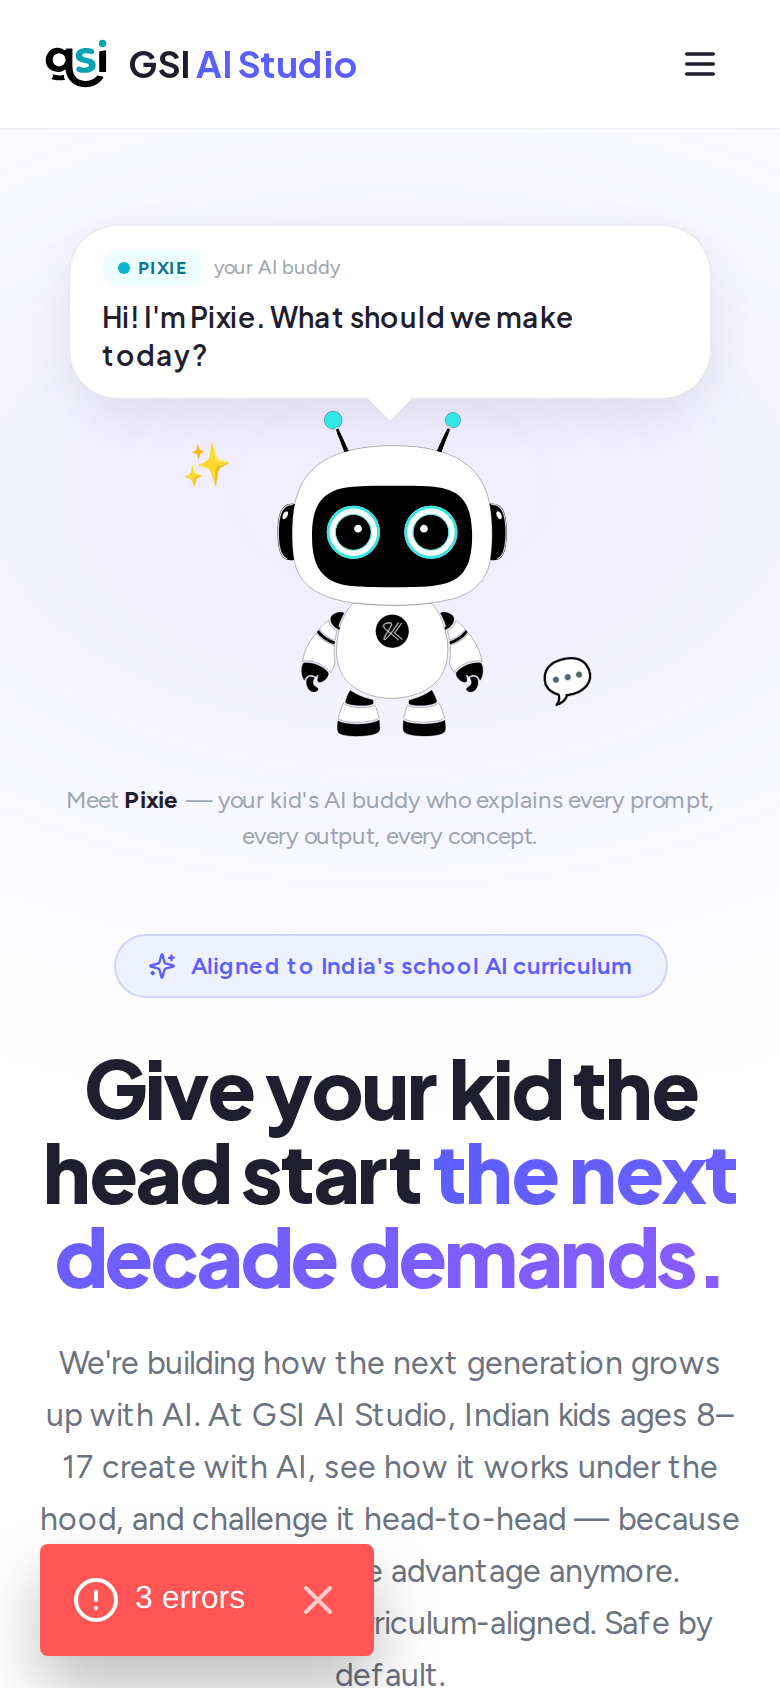
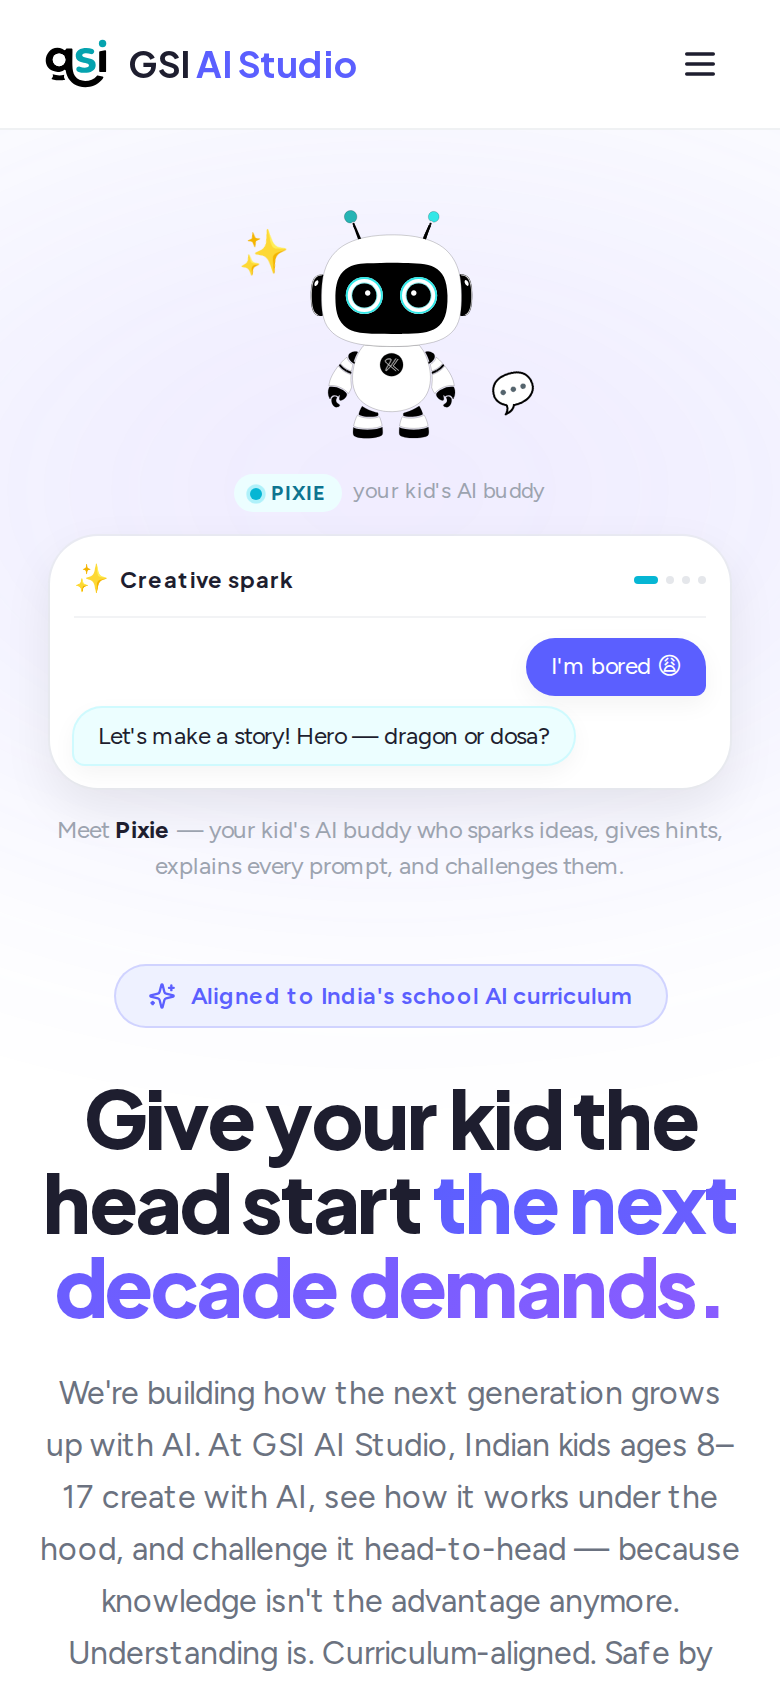
MARKETING-HERO: turn Pixie into a mini interactive demo
Static "Pixie waves" doesn't pay off the promise that she's a real
conversational AI buddy. Replace it with a mini chat demo that cycles
through Pixie's four core roles — exactly what the rest of the page
promises kids can do.

Hero column structure:
- Pixie (size xl) sitting free with her halo + sparkle/chat accents
- Live identity tag: "PIXIE · your kid's AI buddy" with pulsing dot
- Mini chat panel (340px max-w) with:
  - Scene label + emoji at top (e.g. "✨ Creative spark")
  - Progression dots showing 1/4 → 2/4 → 3/4 → 4/4
  - 2 chat bubbles per scene (kid right + Pixie left, color-coded)
  - Scene cycles every 5.8s with crossfade transitions
- Caption underneath summarising the four roles

The four scenes — each showcases a real product feature:
1. ✨ Creative spark — kid bored → Pixie suggests story (Studios)
2. 📚 Homework help — "Try 27 × 10 first" — hints, never answers
3. 🔍 AI X-Ray — explains how SDXL turned prompt into image
4. ⚡ Beat the AI — Maths Monday challenge invitation

Reads like watching a kid use the product. The hero now demonstrates
the conversational role rather than just declaring it.

diff --git a/components/marketing/Hero.tsx b/components/marketing/Hero.tsx
@@ -150,99 +150,111 @@ export function Hero() {
   );
 }
 
-/* Brand mascot — focal hero visual. Pixie sits free on the page (no card)
-   with a stack of cycling chat bubbles that demonstrate her conversational
-   role: she's the kid's AI buddy who walks them through it. Mascot data
-   comes from the roster, so swapping the brand default is a one-line edit
-   in lib/mascots/roster.ts. */
+/* Brand mascot — focal hero visual. Pixie + a mini cycling chat demo
+   that shows the four ways she helps a kid: spark creativity, give
+   homework hints (never answers), explain how AI made things via
+   X-Ray, and challenge them in head-to-head Beat the AI. Each scene
+   is a 2-message exchange; the demo cycles every ~6s. */
 
-const PIXIE_LINES = [
-  "Hi! I'm Pixie. What should we make today?",
-  'Ask me how AI made it — anytime.',
-  'Stuck on homework? I give hints, never answers.',
-  'Wanna beat the AI? Pick a challenge.',
+interface ChatMsg {
+  from: 'kid' | 'pixie';
+  text: string;
+}
+
+interface ChatScene {
+  id: string;
+  label: string;
+  badge: string;
+  messages: ChatMsg[];
+}
+
+const PIXIE_DEMO_SCENES: ChatScene[] = [
+  {
+    id: 'create',
+    label: 'Creative spark',
+    badge: '✨',
+    messages: [
+      { from: 'kid', text: "I'm bored 😩" },
+      { from: 'pixie', text: "Let's make a story! Hero — dragon or dosa?" },
+    ],
+  },
+  {
+    id: 'homework',
+    label: 'Homework — hints, not answers',
+    badge: '📚',
+    messages: [
+      { from: 'kid', text: 'Stuck on 27 × 13' },
+      { from: 'pixie', text: 'Try 27 × 10 first. What do you get?' },
+    ],
+  },
+  {
+    id: 'xray',
+    label: 'AI X-Ray',
+    badge: '🔍',
+    messages: [
+      { from: 'kid', text: 'How did you make my dragon?' },
+      { from: 'pixie', text: 'Replicate SDXL turned your prompt into pixels — wanna see how?' },
+    ],
+  },
+  {
+    id: 'beat',
+    label: 'Beat the AI',
+    badge: '⚡',
+    messages: [
+      { from: 'kid', text: 'Bet I can write better than you' },
+      { from: 'pixie', text: 'Maths Monday — pick your champion 🤖' },
+    ],
+  },
 ];
 
 function BrandMascotHero() {
   const mascot = getMascot('pixie');
-  const [lineIndex, setLineIndex] = useState(0);
+  const [sceneIdx, setSceneIdx] = useState(0);
 
   useEffect(() => {
     const id = window.setInterval(() => {
-      setLineIndex((p) => (p + 1) % PIXIE_LINES.length);
-    }, 3600);
+      setSceneIdx((p) => (p + 1) % PIXIE_DEMO_SCENES.length);
+    }, 5800);
     return () => window.clearInterval(id);
   }, []);
 
+  const scene = PIXIE_DEMO_SCENES[sceneIdx]!;
+
   return (
     <motion.div
-      initial={{ opacity: 0, scale: 0.92 }}
+      initial={{ opacity: 0, scale: 0.94 }}
       animate={{ opacity: 1, scale: 1 }}
       transition={{ duration: 0.7, ease: 'easeOut' }}
-      className="relative mx-auto flex w-full max-w-md flex-col items-center gap-4 lg:max-w-none"
+      className="relative mx-auto flex w-full max-w-md flex-col items-center gap-3 lg:max-w-none"
     >
       {/* Soft halo glow behind Pixie */}
       <div
         aria-hidden
-        className="pointer-events-none absolute -top-6 left-1/2 -z-10 h-[300px] w-[420px] -translate-x-1/2 rounded-full opacity-70 blur-3xl"
+        className="pointer-events-none absolute -top-2 left-1/2 -z-10 h-[260px] w-[400px] -translate-x-1/2 rounded-full opacity-65 blur-3xl"
         style={{
           background:
             'radial-gradient(ellipse at center, rgba(91,179,255,0.35), rgba(138,92,255,0.18) 45%, transparent 75%)',
         }}
       />
 
-      {/* Cycling chat bubble — Pixie talking */}
-      <div className="relative flex min-h-[78px] w-full max-w-[320px] items-end justify-center">
-        <AnimatePresence mode="wait">
-          <motion.div
-            key={lineIndex}
-            initial={{ opacity: 0, y: 8, scale: 0.96 }}
-            animate={{ opacity: 1, y: 0, scale: 1 }}
-            exit={{ opacity: 0, y: -8, scale: 0.96 }}
-            transition={{ duration: 0.4, ease: 'easeOut' }}
-            className="relative w-full rounded-3xl bg-white px-4 py-3 shadow-card ring-1 ring-brand-border/60"
-          >
-            <div className="flex items-center gap-1.5">
-              <span className="flex items-center gap-1 rounded-full bg-cyan-50 px-2 py-0.5 text-[9px] font-bold uppercase tracking-wide text-cyan-700">
-                <span className="relative flex h-1.5 w-1.5">
-                  <span className="absolute inline-flex h-full w-full animate-ping rounded-full bg-cyan-400 opacity-75" />
-                  <span className="relative inline-flex h-1.5 w-1.5 rounded-full bg-cyan-500" />
-                </span>
-                {mascot.name}
-              </span>
-              <span className="text-[10px] text-brand-text-muted">your AI buddy</span>
-            </div>
-            <p className="mt-1.5 font-display text-[14px] font-semibold leading-snug text-brand-text">
-              {PIXIE_LINES[lineIndex]}
-            </p>
-            {/* Tail pointing down to Pixie */}
-            <div
-              aria-hidden
-              className="absolute -bottom-2 left-1/2 h-4 w-4 -translate-x-1/2 rotate-45 bg-white ring-1 ring-brand-border/60"
-              style={{ clipPath: 'polygon(100% 0, 100% 100%, 0 100%)' }}
-            />
-          </motion.div>
-        </AnimatePresence>
-      </div>
-
-      {/* Pixie — sits free, no card, with subtle bob */}
+      {/* Pixie — sits free, with subtle bob */}
       <motion.div
-        animate={{ y: [0, -6, 0] }}
+        animate={{ y: [0, -5, 0] }}
         transition={{ duration: 4.5, repeat: Infinity, ease: 'easeInOut' }}
         className="relative"
       >
         <MascotAvatar
           id={mascot.id}
-          size="2xl"
+          size="xl"
           ariaLabel={`${mascot.name} — GSI brand mascot`}
         />
 
-        {/* Sparkle decorations */}
+        {/* Sparkle accents */}
         <motion.span
           aria-hidden
           animate={{ rotate: [0, 18, -10, 0], scale: [1, 1.15, 1] }}
           transition={{ duration: 3.5, repeat: Infinity, ease: 'easeInOut' }}
-          className="absolute -left-6 top-2 text-xl"
+          className="absolute -left-5 top-1 text-xl"
         >
           ✨
         </motion.span>
@@ -250,16 +262,99 @@ function BrandMascotHero() {
           aria-hidden
           animate={{ rotate: [0, -18, 10, 0], scale: [1, 1.15, 1] }}
           transition={{ duration: 4, repeat: Infinity, ease: 'easeInOut', delay: 1.2 }}
-          className="absolute -right-5 bottom-4 text-lg"
+          className="absolute -right-4 bottom-3 text-base"
         >
           💬
         </motion.span>
       </motion.div>
 
-      {/* Caption — names the role under the mascot */}
+      {/* Identity tag — Pixie name + live indicator */}
+      <div className="flex items-center gap-1.5">
+        <span className="flex items-center gap-1 rounded-full bg-cyan-50 px-2 py-0.5 text-[10px] font-bold uppercase tracking-wide text-cyan-700">
+          <span className="relative flex h-1.5 w-1.5">
+            <span className="absolute inline-flex h-full w-full animate-ping rounded-full bg-cyan-400 opacity-75" />
+            <span className="relative inline-flex h-1.5 w-1.5 rounded-full bg-cyan-500" />
+          </span>
+          {mascot.name}
+        </span>
+        <span className="text-[11px] text-brand-text-muted">your kid&apos;s AI buddy</span>
+      </div>
+
+      {/* Mini chat demo — cycles through 4 scenarios showing Pixie's 4 roles */}
+      <div className="w-full max-w-[340px] rounded-3xl bg-white p-3 shadow-card ring-1 ring-brand-border/60">
+        {/* Scene label tab */}
+        <div className="flex items-center justify-between border-b border-brand-border/50 pb-2">
+          <AnimatePresence mode="wait">
+            <motion.div
+              key={`label-${sceneIdx}`}
+              initial={{ opacity: 0, x: -6 }}
+              animate={{ opacity: 1, x: 0 }}
+              exit={{ opacity: 0, x: 6 }}
+              transition={{ duration: 0.3 }}
+              className="flex items-center gap-1.5"
+            >
+              <span className="text-sm">{scene.badge}</span>
+              <span className="font-display text-[11px] font-bold text-brand-text">
+                {scene.label}
+              </span>
+            </motion.div>
+          </AnimatePresence>
+          {/* Scene dots — show progression */}
+          <div className="flex items-center gap-1">
+            {PIXIE_DEMO_SCENES.map((s, i) => (
+              <span
+                key={s.id}
+                className={`h-1 rounded-full transition-all ${
+                  i === sceneIdx ? 'w-3 bg-cyan-500' : 'w-1 bg-brand-border'
+                }`}
+              />
+            ))}
+          </div>
+        </div>
+
+        {/* Chat messages */}
+        <AnimatePresence mode="wait">
+          <motion.div
+            key={`msgs-${sceneIdx}`}
+            initial={{ opacity: 0, y: 6 }}
+            animate={{ opacity: 1, y: 0 }}
+            exit={{ opacity: 0, y: -6 }}
+            transition={{ duration: 0.3 }}
+            className="mt-2.5 space-y-1.5"
+          >
+            {scene.messages.map((msg, i) => (
+              <ChatBubble key={i} msg={msg} delay={i * 0.35} />
+            ))}
+          </motion.div>
+        </AnimatePresence>
+      </div>
+
+      {/* Caption */}
       <p className="text-center text-caption text-brand-text-muted">
-        Meet <span className="font-bold text-brand-text">{mascot.name}</span> — your kid&apos;s AI buddy who explains every prompt, every output, every concept.
+        Meet <span className="font-bold text-brand-text">{mascot.name}</span> — your kid&apos;s AI buddy who sparks ideas, gives hints, explains every prompt, and challenges them.
       </p>
+    </motion.div>
+  );
+}
+
+function ChatBubble({ msg, delay }: { msg: ChatMsg; delay: number }) {
+  const isKid = msg.from === 'kid';
+  return (
+    <motion.div
+      initial={{ opacity: 0, y: 4, scale: 0.96 }}
+      animate={{ opacity: 1, y: 0, scale: 1 }}
+      transition={{ duration: 0.35, delay, ease: 'easeOut' }}
+      className={`flex ${isKid ? 'justify-end' : 'justify-start'}`}
+    >
+      <div
+        className={`max-w-[85%] px-3 py-1.5 text-[12px] leading-snug shadow-soft ${
+          isKid
+            ? 'rounded-2xl rounded-br-md bg-brand-primary text-white'
+            : 'rounded-2xl rounded-bl-md bg-cyan-50 text-brand-text ring-1 ring-cyan-100'
+        }`}
+      >
+        {msg.text}
+      </div>
     </motion.div>
   );
 }
